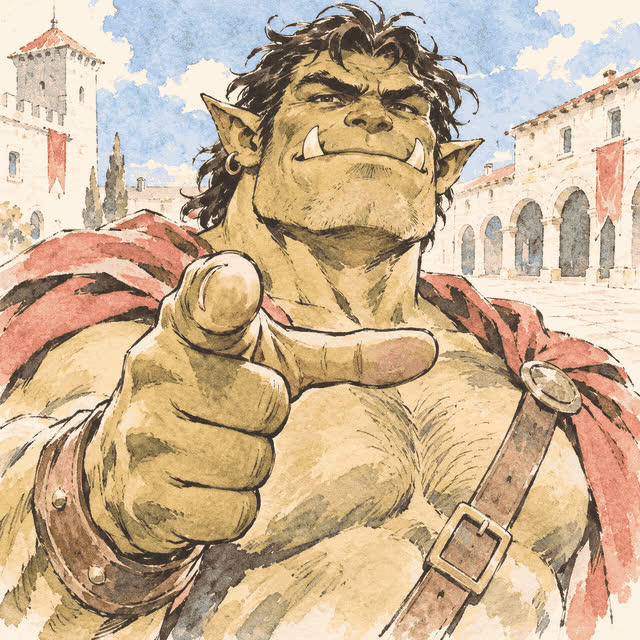
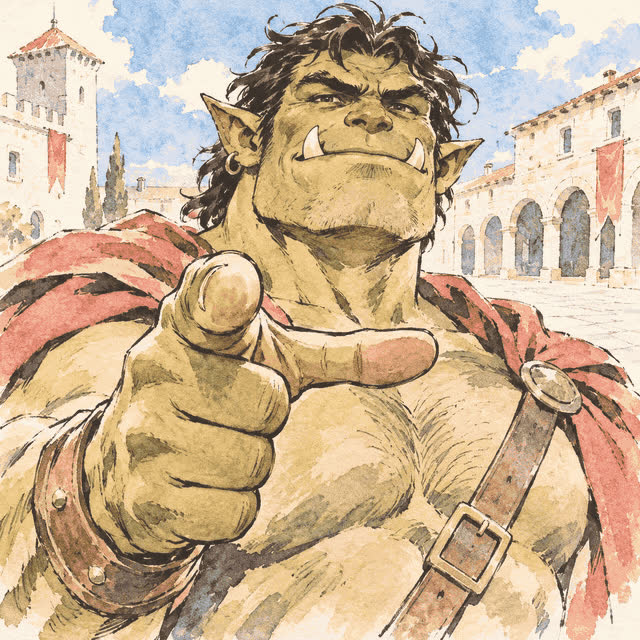
Make My man land on the wink and grin instead of reversing the gesture.

Changed region(s): [[0.875, 0.375, 0.9062, 0.4062], [0.8125, 0.4062, 0.8438, 0.4375]]

diff --git a/scripts/motion-prompts.ts b/scripts/motion-prompts.ts
@@ -118,7 +118,7 @@ export const PROMPTS: Record<string, string> = {
   morning:
     "He raises the steaming mug to his lips, tilts it and takes a real, slow sip of hot coffee, his lips touching the rim between his tusks, his eyes closed. Then he lowers the mug back to chest height, swallows, lets out a contented sigh with a warm, satisfied closed-mouth smile, and opens his eyes to the viewer with a sleepy good-morning look. Steam keeps rising from the coffee. One hand holds the mug the whole time. Mouth stays closed except for the sip, no talking. His hair, tusks, face and shirt stay exactly the same. Locked camera, no zoom, no cut.",
   "my-man":
-    "Studio still of a new orc in a bright town square, finger pistol at the viewer. Two preserve edits, masked onto the still: his left eye shut in a wink, and a wider closed-mouth grin. The hand gives one small upward kick (warp), he grins and winks, gives one confident nod (head warp), holds it, then opens his eye and relaxes the hand back to the start for the loop. No video model.",
+    "He holds a finger pistol at the viewer. He pushes it forward and fires one small upward kick, then his closed-mouth grin widens, he winks his left eye, and he gives one confident nod. He holds the wink, the grin and the finger pistol. Mouth stays closed, no talking. No text, no captions. His hair, tusks, face, clothes and the town stay the same apart from that wink, grin, nod and hand. Locked camera: the framing stays exactly the same, no zoom, no pan, no cut. Keyframes on the Studio still: the wink and the grin are masked edits, and the kick and the nod are warps. No video model.",
   nod: "The orc nods his head yes twice and holds the thumbs-up, a satisfied blink. His hair, face and outfit stay exactly the same throughout. Natural character animation, locked camera, no zoom or pan.",
   nope:
     "He slowly shakes his head no, side to side, two or three slow deliberate shakes, keeping his arms firmly crossed and his flat, unimpressed look, then stares back at the viewer. Absolutely not. Mouth stays closed, no talking. His helmet, beard, tusks, face and armor stay exactly the same. The banners flutter softly in the courtyard. Locked camera, no zoom, no cut.",
